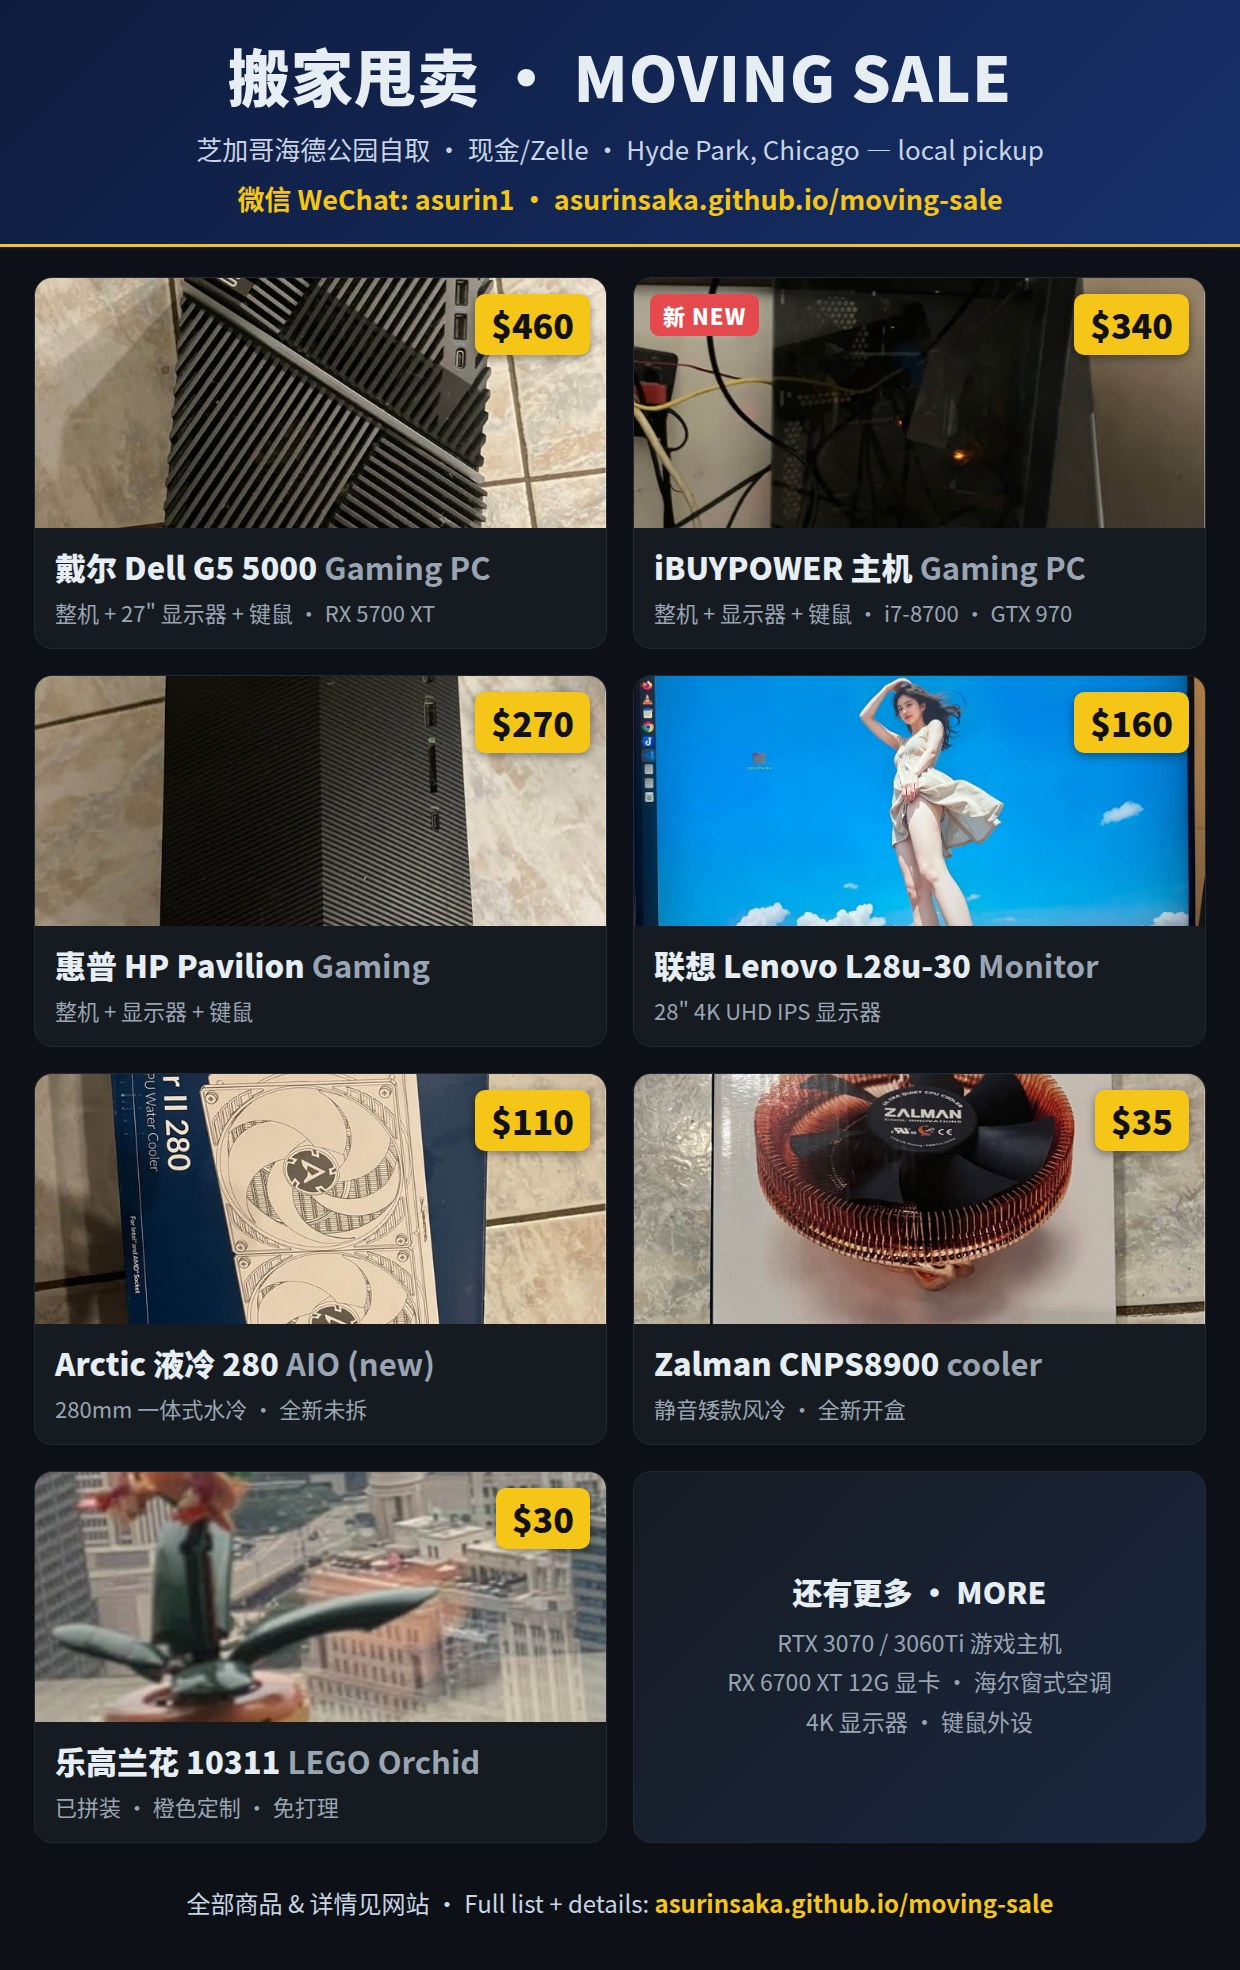
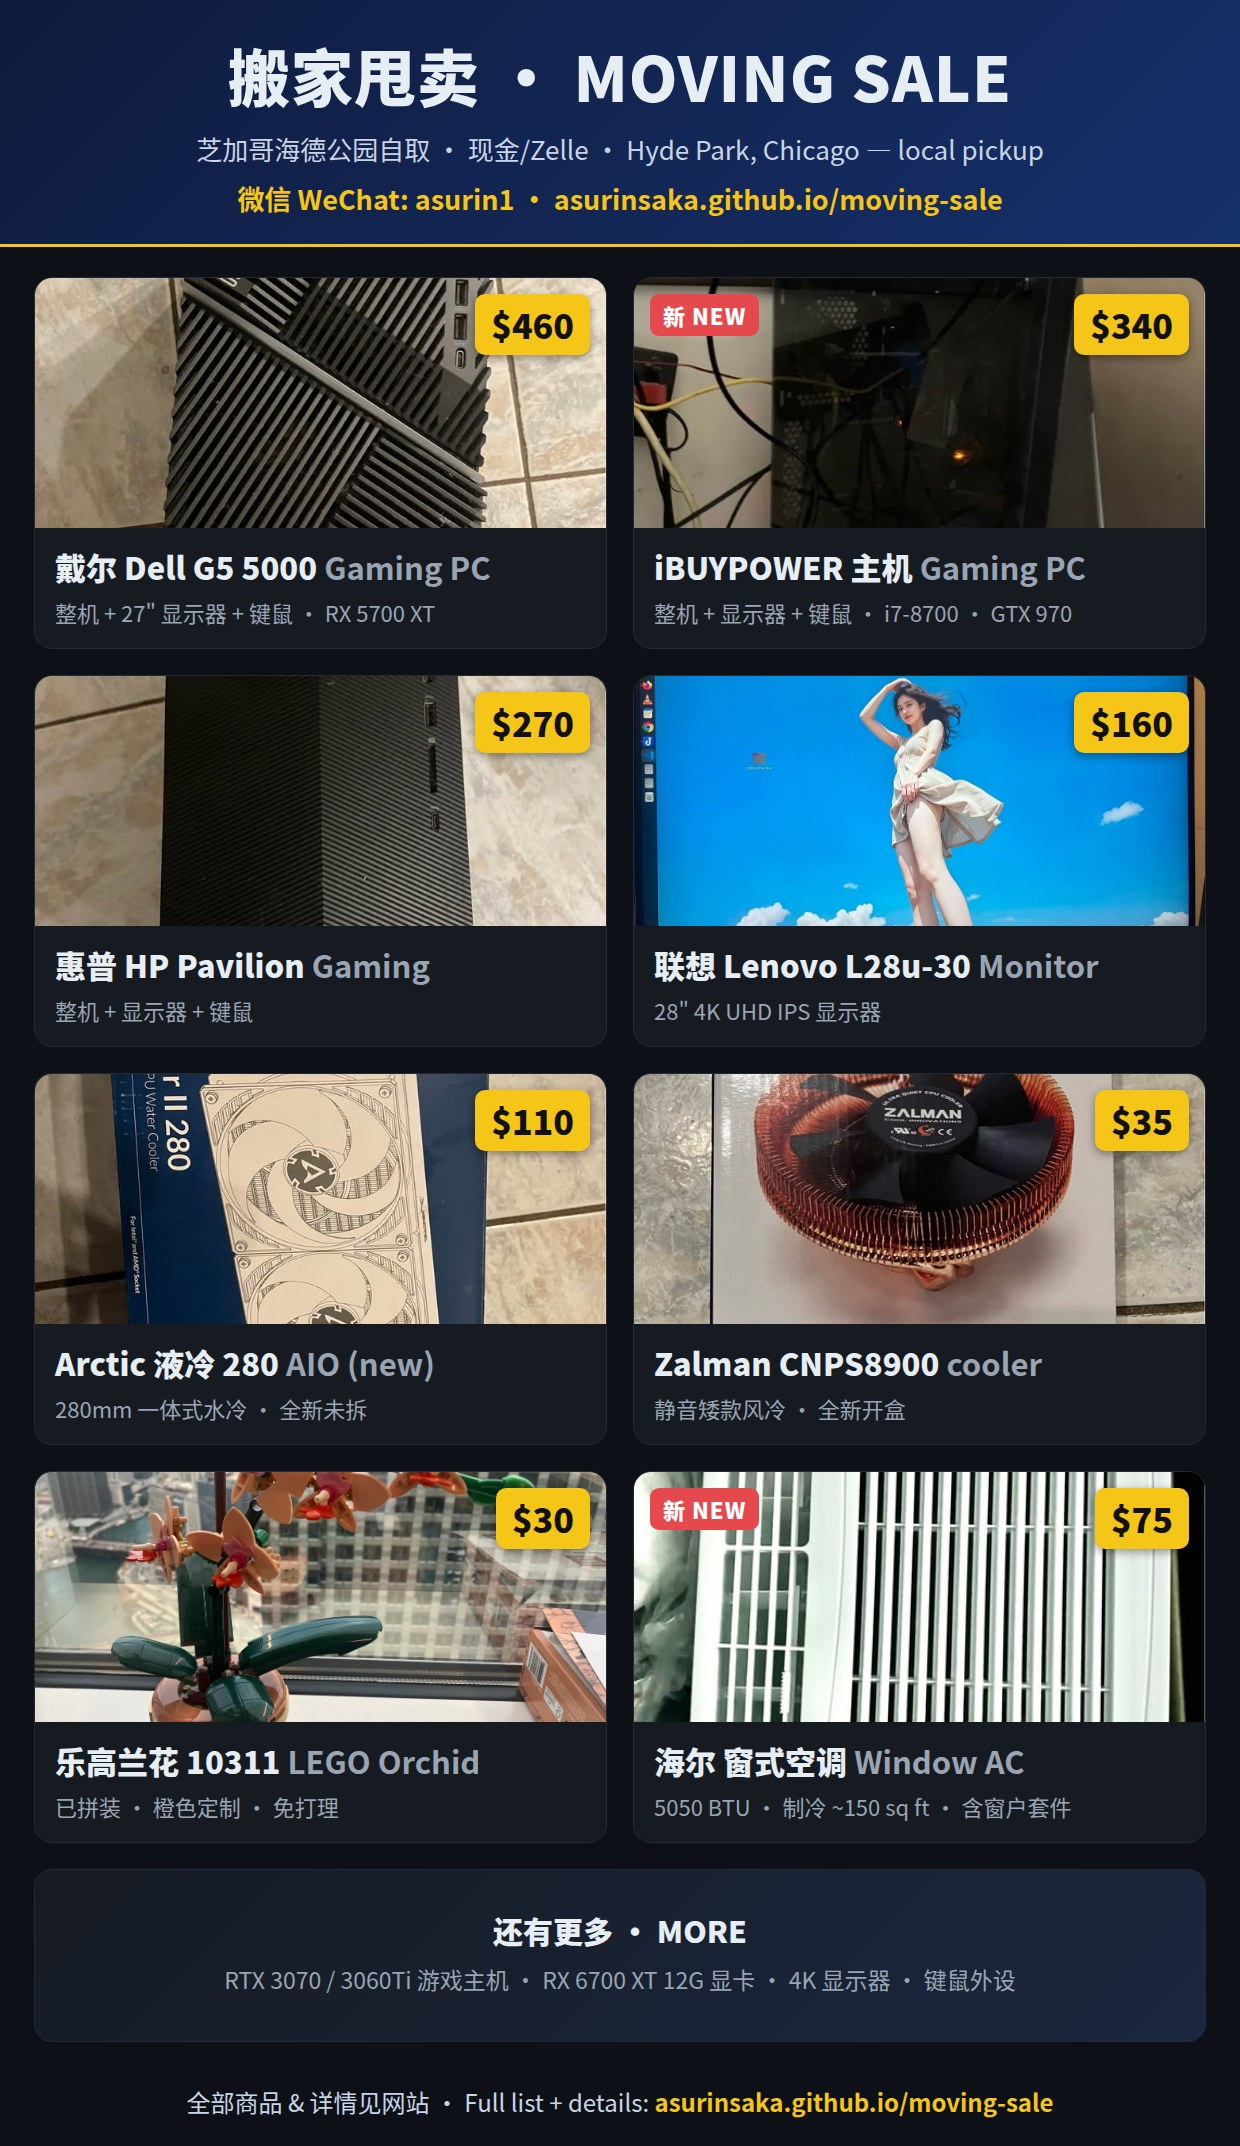
Home page: embed poster after categories; add AC to poster; new LEGO photo
- index.html: show the sale poster right after the category cards; bump date
- poster: add Haier window AC card (with photo) + move "MORE" to a full-width
  strip; re-rendered + auto-trimmed
- collectibles: real photo for the Haier AC; updated LEGO Orchid photo

diff --git a/collectibles/items.js b/collectibles/items.js
@@ -5,7 +5,7 @@ window.ITEMS = [
   specs:["乐高植物系列 · 608 颗粒 / Botanical, 608 pcs","橙色定制花 (原版为粉色) / custom ORANGE blooms","免浇水免打理 · 永不凋谢 / no water, no upkeep","约 30cm 高 ~12\" tall"],
   note:"照片里的木底座不含 / the wooden display stand in the photo is NOT included",
   detail:"乐高植物系列兰花 (10311)，已拼装好，摆上桌就是一盆永不凋谢、免打理的花。这一盆是<b>橙色定制配色</b>（乐高原版是粉色），独一份。全新零售约 $50，这个已拼装二手出。海德公园自取，也可小心打包邮寄(买家付运费)。LEGO Botanical Orchid (set 10311), pre-built — a maintenance-free \"plant\" that never needs water or light. This one has <b>custom orange blooms</b> (the stock set is pink), so it's one-of-a-kind. ~$50 new; selling this built one used. Local pickup in Hyde Park; can ship carefully at buyer's cost."},
- {id:"haier-qtpc05aa", cat:"misc", zh:"海尔 5050 BTU 窗式空调", en:"Haier 5,050 BTU Window AC", price:75, photo:"",
+ {id:"haier-qtpc05aa", cat:"misc", zh:"海尔 5050 BTU 窗式空调", en:"Haier 5,050 BTU Window AC", price:75, photo:"images/haier-qtpc05aa.jpg",
   cond:"二手良好 / used, working", specs:["5050 BTU · 115V 普通插座","制冷约 150 平方英尺 / cools ~150 sq ft","含窗户安装套件 / window kit incl.","滤网可水洗 / washable filter"],
   note:"海德公园自取 / local pickup only",
   detail:"海尔窗式空调 5050 BTU，适合卧室/书房/小公寓（约150平方英尺）。普通插座即用，含窗户安装套件，滤网可水洗。制冷正常，成色好。海德公园自取。Haier 5,050 BTU window AC — great for a bedroom / office / small apartment (~150 sq ft). Standard outlet, includes window kit, washable filter. Cold and working. Local pickup in Hyde Park."},

diff --git a/poster.html b/poster.html
@@ -62,11 +62,15 @@
       <div class="body"><div class="name">乐高兰花 10311 <span class="en">LEGO Orchid</span></div>
       <div class="note">已拼装 · 橙色定制 · 免打理</div></div></div>
 
-    <div class="card" style="display:flex;align-items:center;justify-content:center;background:linear-gradient(135deg,#161b22,#1b2740);">
+    <div class="card"><div class="imgwrap"><img src="collectibles/images/haier-qtpc05aa.jpg"><div class="newtag">新 NEW</div><div class="price">$75</div></div>
+      <div class="body"><div class="name">海尔 窗式空调 <span class="en">Window AC</span></div>
+      <div class="note">5050 BTU · 制冷 ~150 sq ft · 含窗户套件</div></div></div>
+
+    <div class="card" style="grid-column:1/-1;display:flex;align-items:center;justify-content:center;background:linear-gradient(135deg,#161b22,#1b2740);padding:22px;">
       <div class="body" style="text-align:center">
         <div class="name" style="font-size:30px">还有更多 · MORE</div>
-        <div class="note" style="font-size:23px;line-height:1.7;margin-top:10px">
-          RTX 3070 / 3060Ti 游戏主机<br>RX 6700 XT 12G 显卡 · 海尔窗式空调<br>4K 显示器 · 键鼠外设</div></div></div>
+        <div class="note" style="font-size:23px;line-height:1.7;margin-top:8px">
+          RTX 3070 / 3060Ti 游戏主机 · RX 6700 XT 12G 显卡 · 4K 显示器 · 键鼠外设</div></div></div>
   </div>
   <footer><div class="more">全部商品 & 详情见网站 · Full list + details: <b>asurinsaka.github.io/moving-sale</b></div></footer>
 </div></body></html>

diff --git a/index.html b/index.html
@@ -50,6 +50,15 @@
   </div>
 </div>
 
+<div class="poster" style="max-width:760px;margin:24px auto 0;text-align:center">
+  <h2 style="margin-bottom:10px">📋 一图看全 · At a glance</h2>
+  <a href="share/moving-sale-poster.jpg" target="_blank" rel="noopener">
+    <img src="share/moving-sale-poster.jpg" alt="搬家甩卖 Moving Sale 海报 poster"
+         loading="lazy" style="width:100%;height:auto;border-radius:14px;box-shadow:0 4px 18px rgba(0,0,0,.18)">
+  </a>
+  <div style="opacity:.7;font-size:.9em;margin-top:6px">点击查看大图 · Tap for full-size</div>
+</div>
+
 <div class="contact" style="max-width:760px;margin:16px auto 0">
   <h2>联系方式 · Contact</h2>
   <div class="wx">微信 WeChat：<span id="wx">asurin1</span></div>
@@ -57,7 +66,7 @@
   <p>📍 自取 Pickup: Hyde Park, Chicago · 💵 现金/Cash or Zelle · 大件不邮寄 No shipping on large items</p>
 </div>
 
-<footer>更新 Updated: 2026-08-03 · 先到先得，售出即删 First-come; sold items marked/removed.</footer>
+<footer>更新 Updated: 2026-08-08 · 先到先得，售出即删 First-come; sold items marked/removed.</footer>
 <script src="render.js"></script>
 </body>
 </html>
